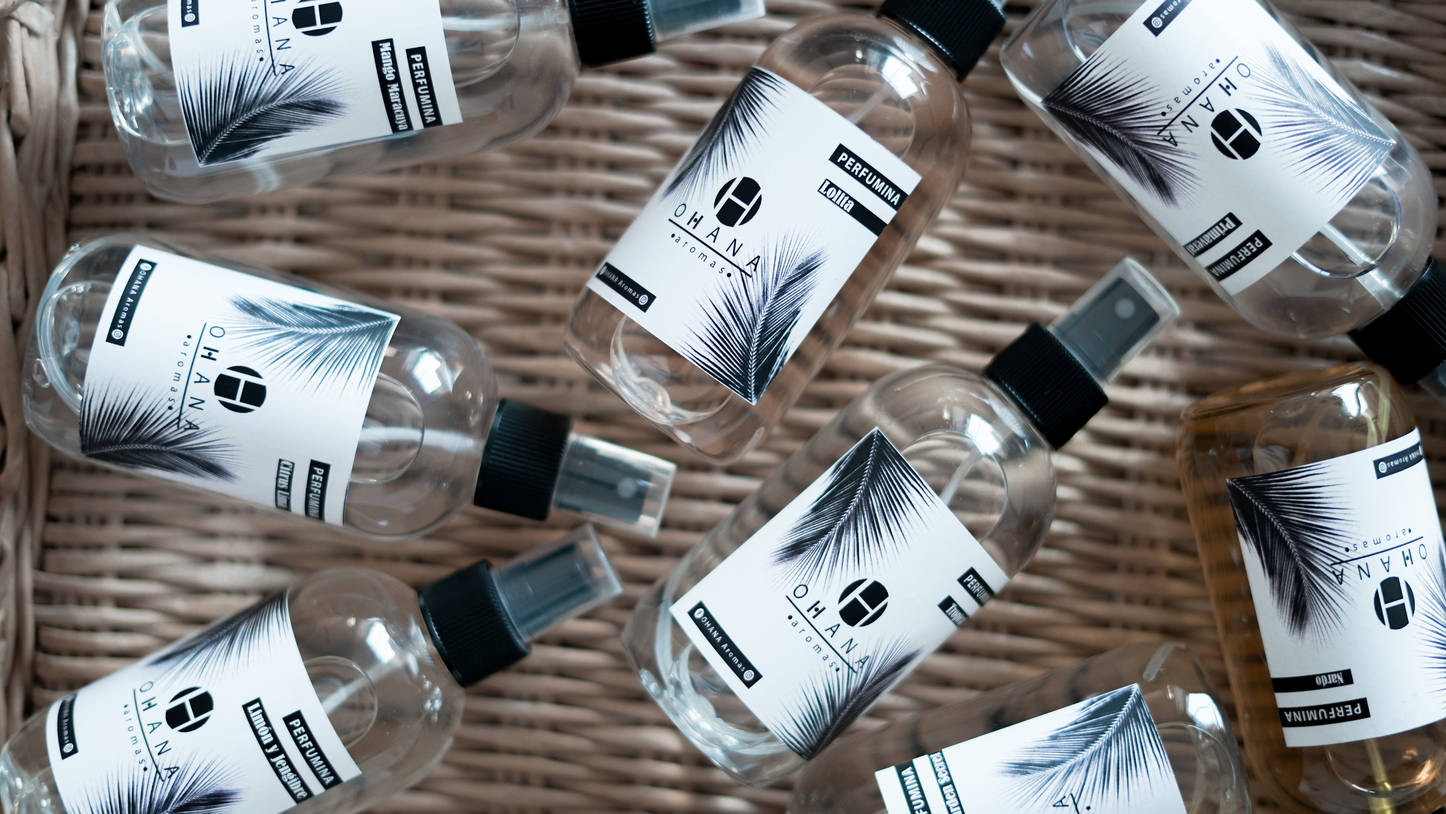
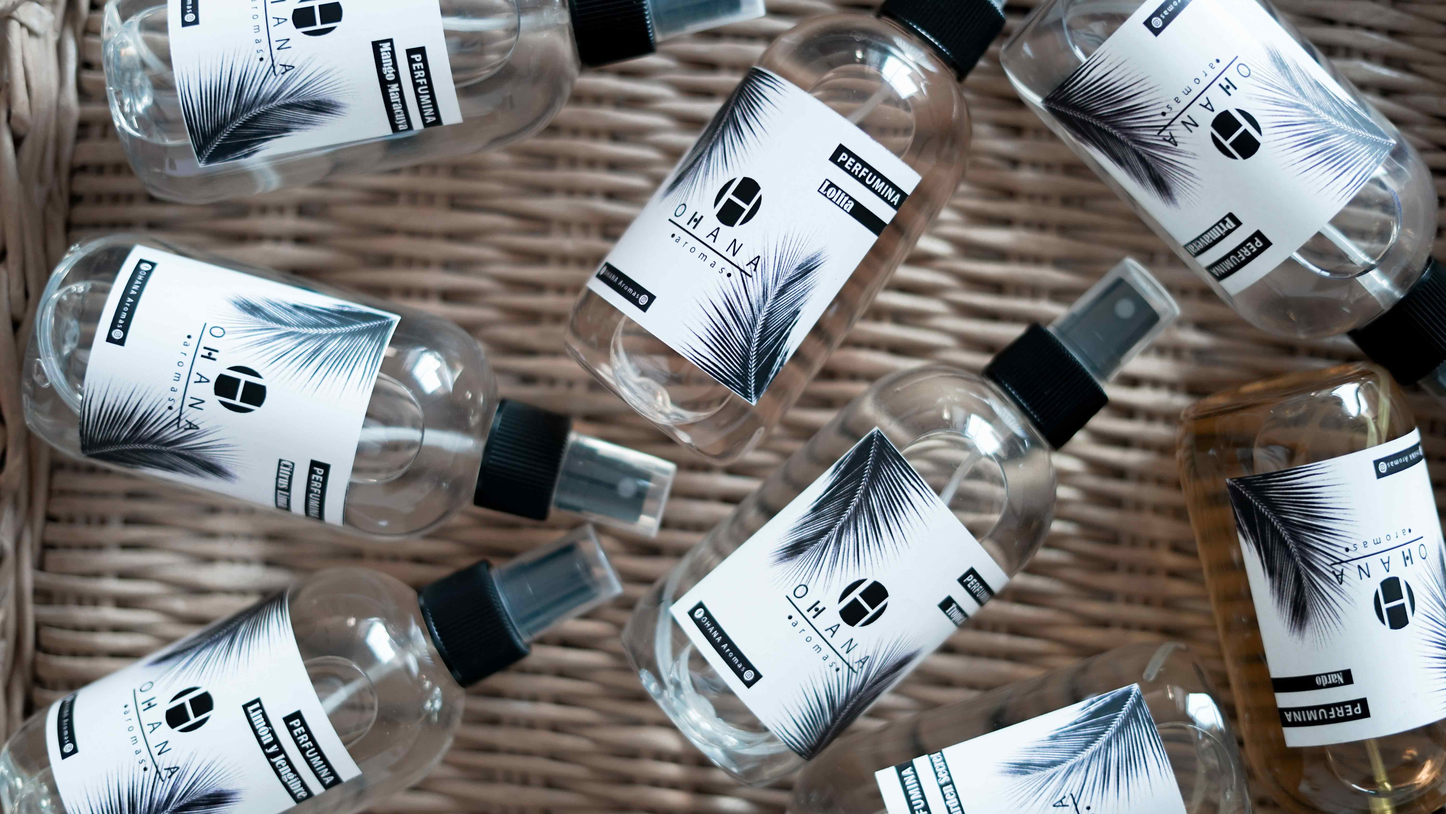
optimizando imagenes

Changed region(s): [[0.4987, 0.3421, 0.561, 0.4354], [0.561, 0.622, 0.5922, 0.6531]]

diff --git a/paginas/novedades.html b/paginas/novedades.html
@@ -76,21 +76,21 @@
                 </div>
             </article>
             <article class="bloqueCuatro">
-                <img class="primerfila__imagen" src="../recursos/novedadeshalmmadi.png" alt="Perfumina Halmaddi">
+                <img class="primerfila__imagen" src="../recursos/novedadeshalmmadi.jpg" alt="Perfumina Halmaddi">
                 <div class="primerfila__texto">
                     <h2 class="primerfila__subtitulo">HALMADDI</h2>
                     <p class="primerafila__frase">Perfumina oriental, 250 ml con gatillo pulverizador.</p>
                 </div>
             </article>
             <article class="bloqueCinco">
-                <img class="primerfila__imagen" src="../recursos/novedadespeonina.png" alt="Perfumina Peonia">
+                <img class="primerfila__imagen" src="../recursos/novedadespeonina.jpg" alt="Perfumina Peonia">
                 <div class="primerfila__texto">
                     <h2 class="primerfila__subtitulo">PEONIAS</h2>
                     <p class="primerafila__frase">Perfumina floral, 250 ml con gatillo pulverizador.</p>
                 </div>
             </article>
             <article class="bloqueSeis">
-                <img class="primerfila__imagen" src="../recursos/Novedadesfrutilla.png" alt="Perfumina Frutilla y Champagne">
+                <img class="primerfila__imagen" src="../recursos/Novedadesfrutilla.jpg" alt="Perfumina Frutilla y Champagne">
                 <div class="primerfila__texto">
                     <h2 class="primerfila__subtitulo">FRUTILLA Y CHAMPAGNE</h2>
                     <p class="primerafila__frase">Perfumina frutal, 250 ml con gatillo pulverizador.</p>
